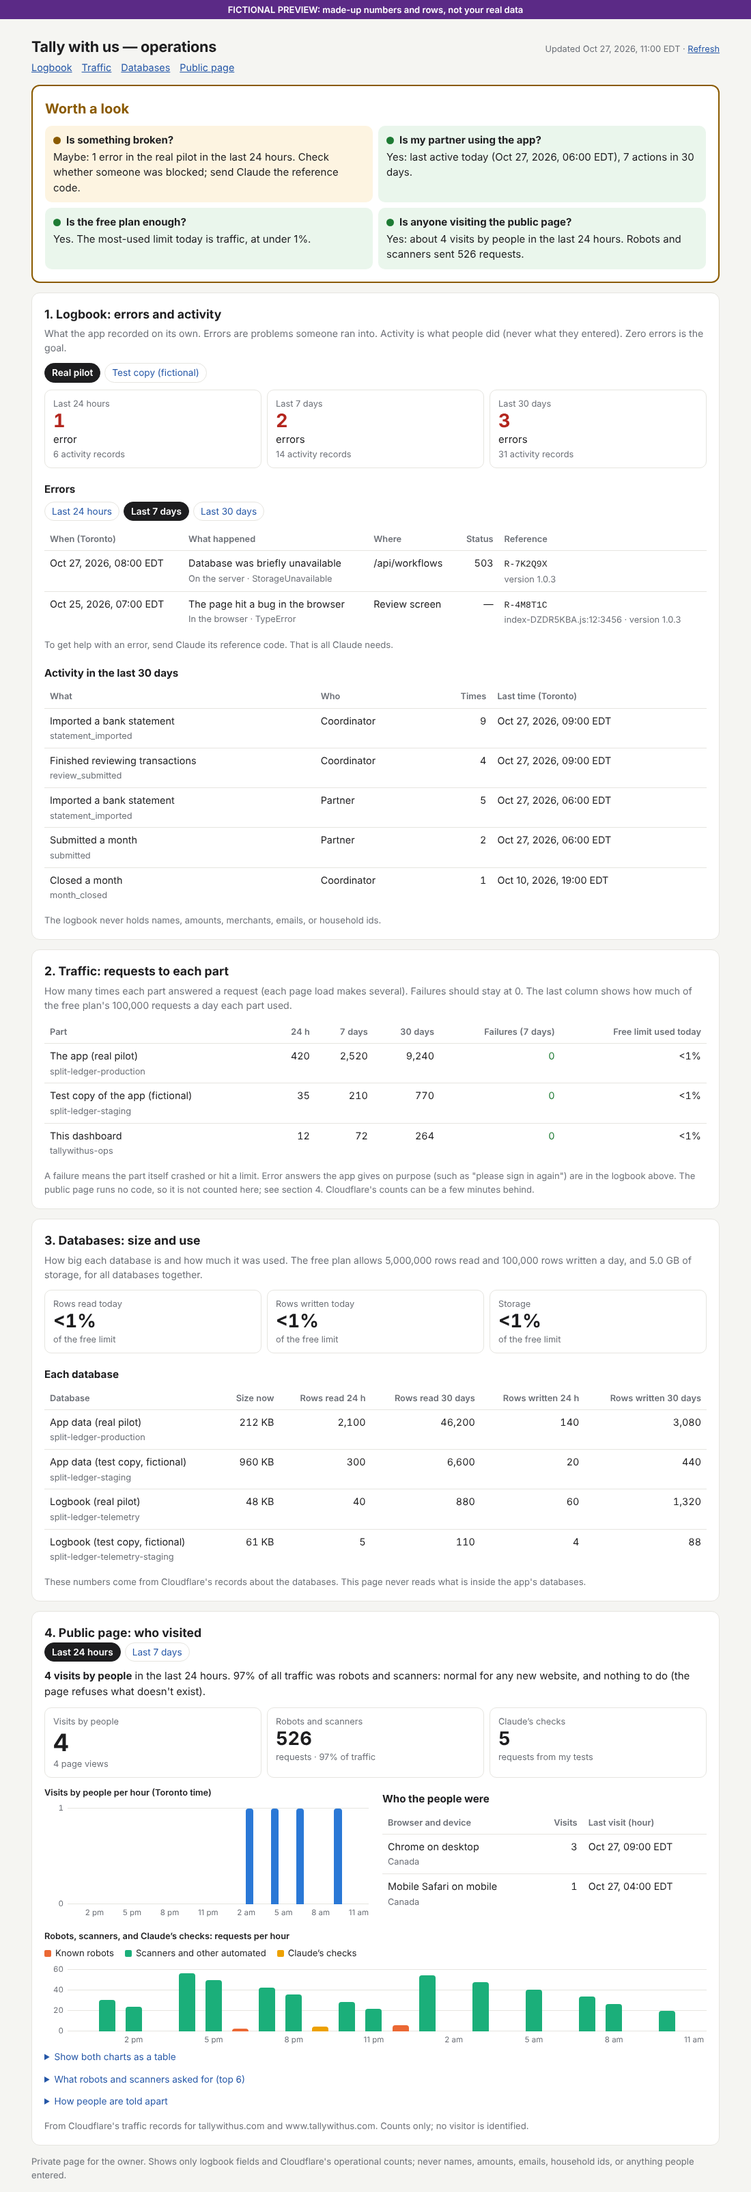
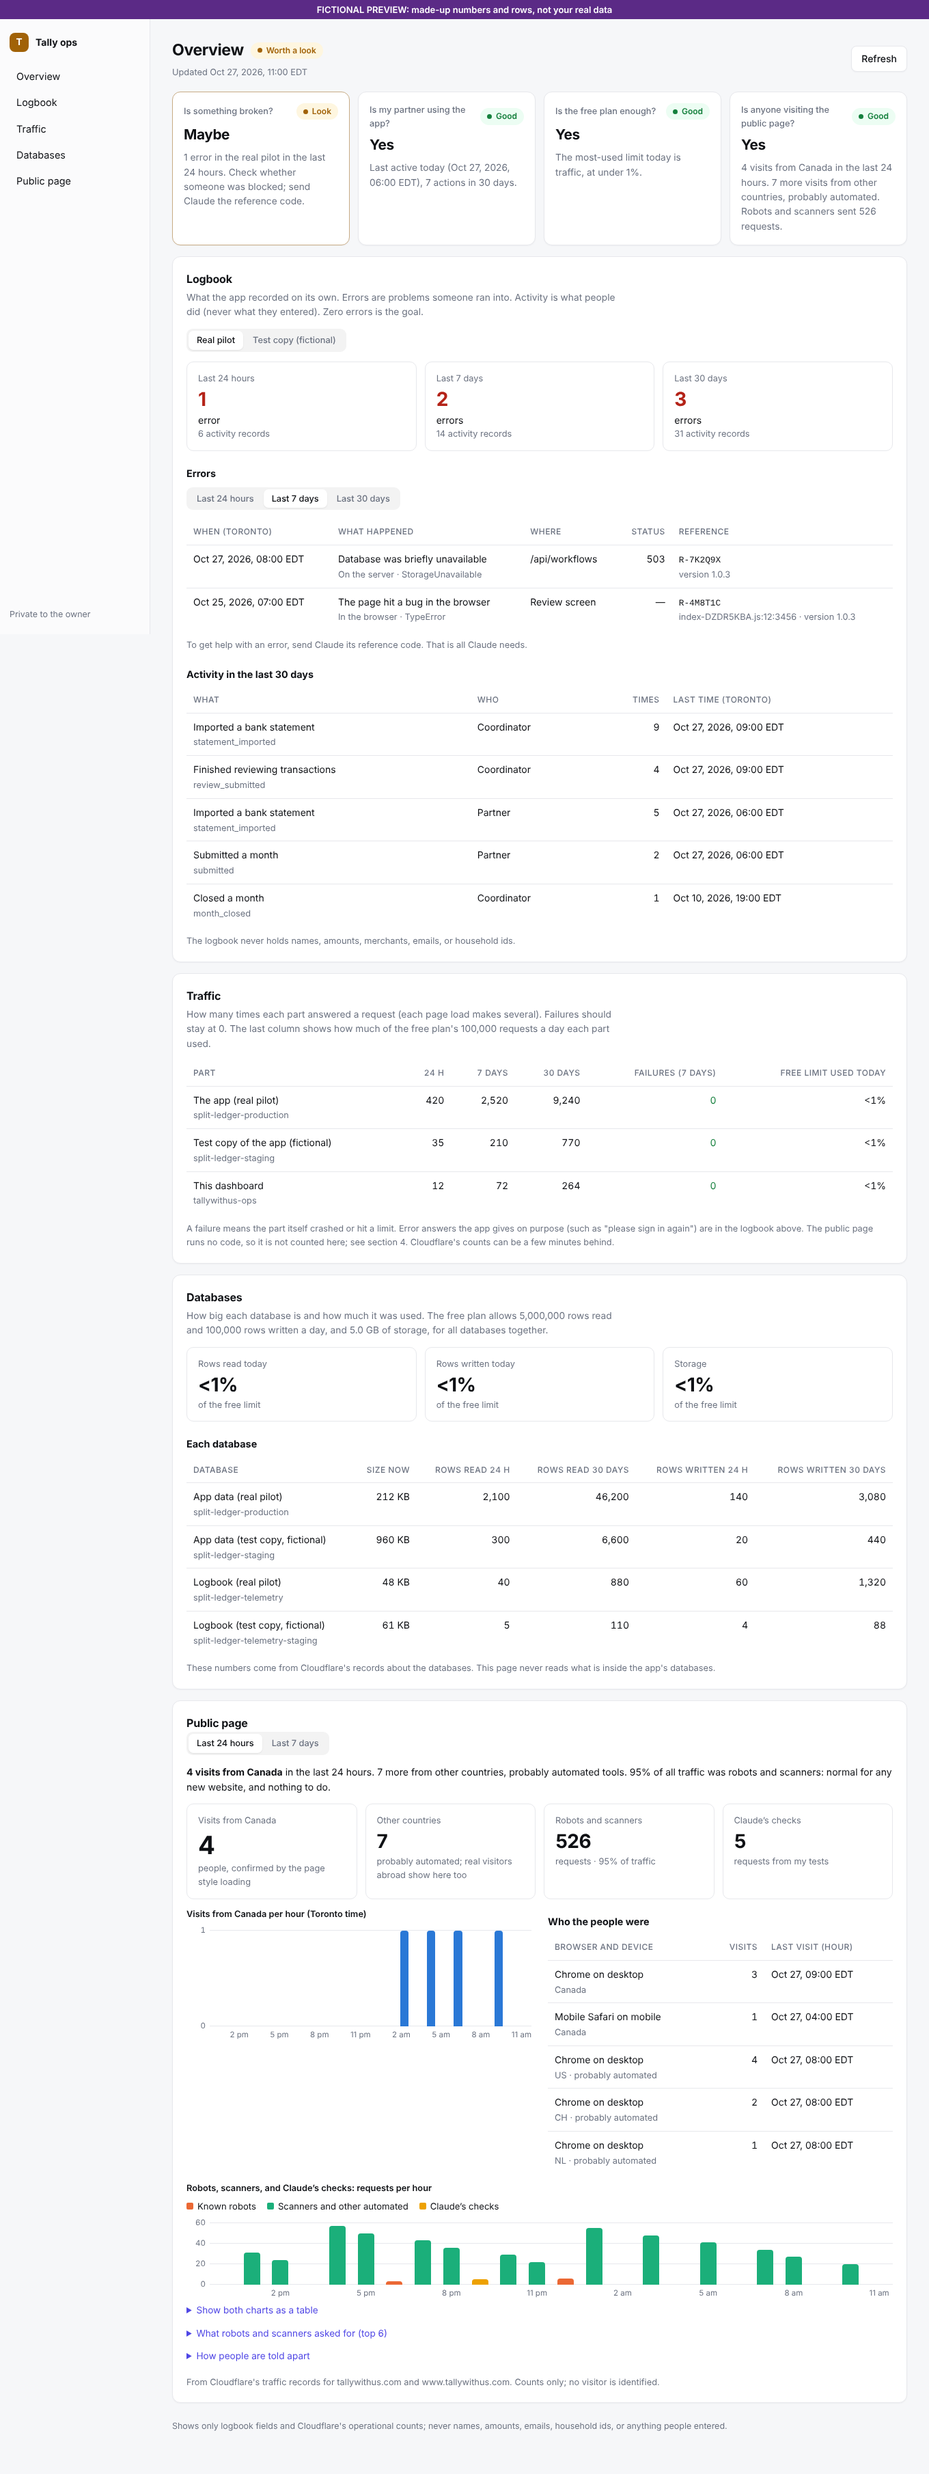
Give the ops dashboard a light SaaS layout (WEB-052)
Sidebar, overview cards that answer the owner's four questions with a status
pill and a short answer, hairline cards, segmented switches, and quieter
tables. Plain HTML and CSS with the system font; phone and dark mode checked.

Claude-Session: https://claude.ai/code/session_01H7phMzBrcq1qitgQ69NEbm

diff --git a/ops-dashboard/src/render.ts b/ops-dashboard/src/render.ts
@@ -29,58 +29,79 @@ export interface PageData {
   visitors: Loaded<PublicPage>
 }
 
+// Light SaaS look (references: Vercel's dashboard for the sidebar and hairline cards, Stripe's
+// home for the overview row of status cards). System font: the page loads nothing outside.
 const STYLE = `
-:root { color-scheme: light dark; --bg: #f5f5f2; --card: #fff; --text: #1d1d1f; --muted: #6b6f76; --line: #e6e5e0; --accent: #2557a7;
-  --good: #1e7b34; --good-bg: #eaf6ec; --info: #3b5b8c; --info-bg: #edf2fa; --watch: #8a5a00; --watch-bg: #fdf4e1; --act: #b3261e; --act-bg: #fdecea; }
-@media (prefers-color-scheme: dark) { :root { --bg: #141414; --card: #1e1e1e; --text: #ececec; --muted: #a3a3a3; --line: #323232; --accent: #8ab4f8;
-  --good: #7bd88f; --good-bg: #17291b; --info: #9db7e0; --info-bg: #19212e; --watch: #f2c26b; --watch-bg: #2c2414; --act: #ff8a80; --act-bg: #331a18; } }
+:root { color-scheme: light dark; --bg: #f6f7f9; --card: #fff; --text: #0f1115; --muted: #6b7280; --line: #e7e8ec; --accent: #4f46e5; --side: #fbfbfc;
+  --good: #15803d; --good-bg: #ecfdf3; --info: #3b5bdb; --info-bg: #eef2ff; --watch: #a16207; --watch-bg: #fef6e0; --act: #b42318; --act-bg: #fef1f0;
+  --shadow: 0 1px 2px rgba(16, 24, 40, 0.04); }
+@media (prefers-color-scheme: dark) { :root { --bg: #0b0c0f; --card: #14161b; --text: #ececf1; --muted: #9aa0ab; --line: #262a33; --accent: #a5b4fc; --side: #0f1115;
+  --good: #6ee7a0; --good-bg: #0f2a1b; --info: #a5b4fc; --info-bg: #1a1f3a; --watch: #fcd34d; --watch-bg: #2d2410; --act: #fda29b; --act-bg: #34171a; --shadow: none; } }
 * { box-sizing: border-box; }
-body { margin: 0; background: var(--bg); color: var(--text); font: 15px/1.5 system-ui, -apple-system, "Segoe UI", sans-serif; }
-main { max-width: 1040px; margin: 0 auto; padding: 16px; }
-a { color: var(--accent); }
-header { display: flex; flex-wrap: wrap; justify-content: space-between; align-items: baseline; gap: 4px 16px; margin: 8px 0 4px; }
-h1 { font-size: 1.35rem; margin: 0; letter-spacing: -0.01em; }
-h2 { font-size: 1.1rem; margin: 0; }
-h3 { font-size: 0.95rem; margin: 20px 0 6px; }
-section { background: var(--card); border: 1px solid var(--line); border-radius: 12px; padding: 18px; margin: 14px 0; }
-.how { color: var(--muted); font-size: 0.88rem; margin: 4px 0 12px; }
-.muted { color: var(--muted); }
-.small { font-size: 0.8rem; }
-.note { color: var(--muted); font-size: 0.82rem; margin: 10px 0 0; }
+body { margin: 0; background: var(--bg); color: var(--text); font: 14px/1.55 system-ui, -apple-system, "Segoe UI", Roboto, sans-serif; -webkit-font-smoothing: antialiased; }
+a { color: var(--accent); text-decoration: none; } a:hover { text-decoration: underline; }
+.shell { display: grid; grid-template-columns: 220px minmax(0, 1fr); min-height: 100vh; }
+.side { position: sticky; top: 0; height: 100vh; background: var(--side); border-right: 1px solid var(--line); padding: 20px 14px; display: flex; flex-direction: column; gap: 18px; }
+.brand { display: flex; align-items: center; gap: 10px; font-weight: 650; }
+.logo { width: 28px; height: 28px; border-radius: 8px; display: grid; place-items: center; color: #fff; font-size: 0.85rem; background: var(--good); }
+.logo.watch { background: var(--watch); } .logo.act { background: var(--act); }
+@media (prefers-color-scheme: dark) { .logo { color: #0b0c0f; } }
+.side nav { display: flex; flex-direction: column; gap: 2px; }
+.side nav a { color: var(--text); padding: 7px 10px; border-radius: 8px; font-size: 0.9rem; }
+.side nav a:hover { background: color-mix(in srgb, var(--text) 6%, transparent); text-decoration: none; }
+.side-foot { margin-top: auto; font-size: 0.78rem; color: var(--muted); }
+.content { padding: 28px 32px 48px; max-width: 1180px; width: 100%; min-width: 0; }
+.top { display: flex; flex-wrap: wrap; justify-content: space-between; align-items: center; gap: 12px; margin-bottom: 18px; }
+h1 { font-size: 1.45rem; margin: 0; letter-spacing: -0.02em; display: flex; align-items: center; gap: 10px; }
+h2 { font-size: 1rem; margin: 0; letter-spacing: -0.01em; }
+h3 { font-size: 0.9rem; margin: 22px 0 8px; }
+.btn { border: 1px solid var(--line); background: var(--card); color: var(--text); border-radius: 8px; padding: 7px 14px; font-weight: 550; box-shadow: var(--shadow); }
+.btn:hover { text-decoration: none; border-color: var(--muted); }
+section { background: var(--card); border: 1px solid var(--line); border-radius: 12px; padding: 20px; margin: 16px 0; box-shadow: var(--shadow); scroll-margin-top: 16px; }
+.how { color: var(--muted); font-size: 0.86rem; margin: 4px 0 14px; max-width: 75ch; }
+.muted { color: var(--muted); } .small { font-size: 0.8rem; }
+.note { color: var(--muted); font-size: 0.8rem; margin: 12px 0 0; }
 .scroll { overflow-x: auto; }
-table { border-collapse: collapse; width: 100%; font-size: 0.9rem; }
-th, td { text-align: left; padding: 7px 8px; border-bottom: 1px solid var(--line); vertical-align: top; }
-th { color: var(--muted); font-weight: 600; font-size: 0.8rem; white-space: nowrap; }
+table { border-collapse: collapse; width: 100%; font-size: 0.875rem; }
+th, td { text-align: left; padding: 9px 10px; border-bottom: 1px solid var(--line); vertical-align: top; }
+th { color: var(--muted); font-weight: 550; font-size: 0.75rem; text-transform: uppercase; letter-spacing: 0.04em; white-space: nowrap; }
+tbody tr:hover { background: color-mix(in srgb, var(--text) 3%, transparent); }
 td.num, th.num { text-align: right; font-variant-numeric: tabular-nums; white-space: nowrap; }
 tbody tr:last-child td { border-bottom: none; }
-.tiles { display: grid; grid-template-columns: repeat(auto-fit, minmax(88px, 1fr)); gap: 8px; }
-.tile { border: 1px solid var(--line); border-radius: 10px; padding: 10px 12px; }
-.tile .big { font-size: 1.7rem; font-weight: 650; font-variant-numeric: tabular-nums; line-height: 1.2; }
-.zero { color: var(--good); }
-.some { color: var(--act); }
-.choices { display: flex; flex-wrap: wrap; gap: 6px; margin: 0 0 10px; }
-.choices a, .choices strong { font-size: 0.85rem; padding: 3px 10px; border-radius: 999px; border: 1px solid var(--line); text-decoration: none; }
-.choices strong { background: var(--text); color: var(--card); border-color: var(--text); font-weight: 600; }
-.plain { margin: 0 0 10px; padding-left: 18px; }
-.two { display: grid; grid-template-columns: repeat(auto-fit, minmax(min(100%, 380px), 1fr)); gap: 0 20px; }
-.tile.hero .big { font-size: 2.2rem; }
-.takeaway { margin: 0 0 12px; }
-.failed { color: var(--watch); background: var(--watch-bg); border-radius: 8px; padding: 8px 12px; margin: 0; }
-code { font-size: 0.82rem; white-space: nowrap; }
-.glance { border-width: 2px; }
-.glance.good, .glance.info { border-color: var(--good); }
-.glance.watch { border-color: var(--watch); }
-.glance.act { border-color: var(--act); }
-.verdict { font-size: 1.25rem; font-weight: 650; margin: 0 0 10px; }
-.glance.watch .verdict { color: var(--watch); } .glance.act .verdict { color: var(--act); } .glance.good .verdict, .glance.info .verdict { color: var(--good); }
-.answers { display: grid; grid-template-columns: repeat(auto-fit, minmax(min(100%, 380px), 1fr)); gap: 8px; }
-.answer { border-radius: 10px; padding: 10px 12px; }
+.tiles { display: grid; grid-template-columns: repeat(auto-fit, minmax(150px, 1fr)); gap: 12px; }
+.tile { border: 1px solid var(--line); border-radius: 10px; padding: 14px 16px; background: var(--card); }
+.tile .big { font-size: 1.75rem; font-weight: 650; letter-spacing: -0.02em; line-height: 1.2; margin: 4px 0 2px; }
+.tile.hero .big { font-size: 2.3rem; }
+.zero { color: var(--good); } .some { color: var(--act); }
+.choices { display: inline-flex; flex-wrap: wrap; gap: 2px; padding: 3px; background: color-mix(in srgb, var(--text) 5%, transparent); border-radius: 9px; margin: 0 0 14px; }
+.choices a, .choices strong { font-size: 0.8rem; padding: 4px 12px; border-radius: 7px; color: var(--muted); font-weight: 550; }
+.choices strong { background: var(--card); color: var(--text); box-shadow: 0 1px 2px rgba(0, 0, 0, 0.08); }
+.choices a:hover { color: var(--text); text-decoration: none; }
+.failed { color: var(--watch); background: var(--watch-bg); border-radius: 8px; padding: 10px 12px; margin: 0; }
+code { font: 0.8rem ui-monospace, SFMono-Regular, Menlo, monospace; white-space: nowrap; }
+.pill { display: inline-flex; align-items: center; gap: 6px; font-size: 0.75rem; font-weight: 600; padding: 3px 10px; border-radius: 999px; letter-spacing: 0; }
+.pill.good { color: var(--good); background: var(--good-bg); } .pill.info { color: var(--info); background: var(--info-bg); }
+.pill.watch { color: var(--watch); background: var(--watch-bg); } .pill.act { color: var(--act); background: var(--act-bg); }
+.dot { width: 7px; height: 7px; border-radius: 50%; background: currentColor; flex: none; }
+.overview { display: grid; grid-template-columns: repeat(auto-fit, minmax(min(100%, 240px), 1fr)); gap: 12px; }
+.answer { background: var(--card); border: 1px solid var(--line); border-radius: 12px; padding: 16px; box-shadow: var(--shadow); display: flex; flex-direction: column; gap: 10px; }
+.answer.watch { border-color: color-mix(in srgb, var(--watch) 45%, var(--line)); } .answer.act { border-color: color-mix(in srgb, var(--act) 55%, var(--line)); }
+.answer .question { margin: 0; font-size: 0.8rem; color: var(--muted); font-weight: 550; display: flex; justify-content: space-between; align-items: center; gap: 8px; }
 .answer p { margin: 0; }
-.answer .question { display: flex; align-items: center; gap: 8px; font-weight: 650; margin-bottom: 2px; }
-.answer.good { background: var(--good-bg); } .answer.info { background: var(--info-bg); } .answer.watch { background: var(--watch-bg); } .answer.act { background: var(--act-bg); }
-.dot { width: 11px; height: 11px; border-radius: 50%; flex: none; }
-.dot.good { background: var(--good); } .dot.info { background: var(--info); } .dot.watch { background: var(--watch); } .dot.act { background: var(--act); }
-nav { display: flex; flex-wrap: wrap; gap: 14px; font-size: 0.9rem; margin: 0 0 4px; }
+.answer .short { font-size: 1.3rem; font-weight: 650; letter-spacing: -0.02em; line-height: 1.2; }
+.answer .long { color: var(--muted); font-size: 0.86rem; }
+.plain { margin: 0 0 10px; padding-left: 18px; }
+.two { display: grid; grid-template-columns: repeat(auto-fit, minmax(min(100%, 380px), 1fr)); gap: 0 24px; }
+.takeaway { margin: 0 0 14px; }
+.foot { color: var(--muted); font-size: 0.78rem; margin-top: 24px; }
+@media (max-width: 820px) {
+  .shell { grid-template-columns: minmax(0, 1fr); }
+  .side { position: static; height: auto; flex-direction: row; flex-wrap: wrap; align-items: center; padding: 12px 16px; gap: 10px 16px; border-right: 0; border-bottom: 1px solid var(--line); }
+  .side nav { flex-direction: row; flex-wrap: wrap; }
+  .side nav a { padding: 4px 8px; }
+  .side-foot { display: none; }
+  .content { padding: 18px 16px 40px; }
+}
 `
 
 function link(text: string, href: string, current: boolean): string {
@@ -106,9 +127,24 @@ function named(friendly: string, technical: string): string {
   return friendly === technical ? escapeHtml(technical) : `${escapeHtml(friendly)}<br><span class="muted small">${escapeHtml(technical)}</span>`
 }
 
+const PILL_WORDS: Record<string, string> = { good: 'Good', info: 'Info', watch: 'Look', act: 'Act' }
+
+function pill(level: string, text = PILL_WORDS[level]): string {
+  return `<span class="pill ${level}"><span class="dot"></span>${escapeHtml(text)}</span>`
+}
+
+/** "Maybe: 1 error …" becomes a big "Maybe" over the smaller rest, so the card reads at a glance. */
+export function splitAnswer(text: string): { short: string; long: string } {
+  const match = text.match(/^([^:.]{1,40})[:.]\s+(.*)$/s)
+  return match ? { short: match[1], long: match[2].charAt(0).toUpperCase() + match[2].slice(1) } : { short: text, long: '' }
+}
+
 export function renderGlance(health: Health): string {
-  const answers = health.answers.map((answer) => `<div class="answer ${answer.level}"><p class="question"><span class="dot ${answer.level}"></span>${escapeHtml(answer.question)}</p><p>${escapeHtml(answer.answer)}</p></div>`).join('')
-  return `<section class="glance ${health.level}" id="glance"><p class="verdict">${escapeHtml(health.headline)}</p><div class="answers">${answers}</div></section>`
+  const answers = health.answers.map((answer) => {
+    const { short, long } = splitAnswer(answer.answer)
+    return `<div class="answer ${answer.level}"><p class="question">${escapeHtml(answer.question)}${pill(answer.level)}</p><p class="short">${escapeHtml(short)}</p>${long ? `<p class="long">${escapeHtml(long)}</p>` : ''}</div>`
+  }).join('')
+  return `<div class="overview" id="glance">${answers}</div>`
 }
 
 export function renderLogbook(data: PageData): string {
@@ -116,7 +152,7 @@ export function renderLogbook(data: PageData): string {
     .filter((name) => name === 'production' || data.stagingAvailable)
     .map((name) => link(name === 'production' ? 'Real pilot' : 'Test copy (fictional)', pageHref(name, data.errorWindow, '#logbook'), name === data.logbookName))
     .join('')
-  const heading = `<h2>1. Logbook: errors and activity</h2>
+  const heading = `<h2>Logbook</h2>
 <p class="how">What the app recorded on its own. Errors are problems someone ran into. Activity is what people did (never what they entered). Zero errors is the goal.</p>
 <div class="choices">${choices}</div>`
   if (!data.logbook.ok) return `<section id="logbook">${heading}${failed(data.logbook.reason)}</section>`
@@ -157,7 +193,7 @@ export function renderLogbook(data: PageData): string {
 }
 
 export function renderWorkers(workers: PageData['workers']): string {
-  const heading = `<h2>2. Traffic: requests to each part</h2>
+  const heading = `<h2>Traffic</h2>
 <p class="how">How many times each part answered a request (each page load makes several). Failures should stay at 0. The last column shows how much of the free plan's ${count(FREE_LIMITS.workerRequestsPerDay)} requests a day each part used.</p>`
   if (!workers.ok) return `<section id="workers">${heading}${failed(workers.reason)}</section>`
   const rows = Object.entries(workers.value).map(([name, counts]) => `<tr><td>${named(label(WORKER_LABELS, name), name)}</td>
@@ -171,7 +207,7 @@ ${WINDOW_NAMES.map((window) => `<td class="num">${count(counts[window].requests)
 }
 
 export function renderDatabases(databases: PageData['databases']): string {
-  const heading = `<h2>3. Databases: size and use</h2>
+  const heading = `<h2>Databases</h2>
 <p class="how">How big each database is and how much it was used. The free plan allows ${count(FREE_LIMITS.d1RowsReadPerDay)} rows read and ${count(FREE_LIMITS.d1RowsWrittenPerDay)} rows written a day, and ${bytes(FREE_LIMITS.d1StorageBytes)} of storage, for all databases together.</p>`
   if (!databases.ok) return `<section id="databases">${heading}${failed(databases.reason)}</section>`
   if (!databases.value.length) return `<section id="databases">${heading}<p class="muted">No databases found.</p></section>`
@@ -202,7 +238,7 @@ export function renderVisitors(data: PageData): string {
   const range = data.trafficRange
   const period = range === '24h' ? 'the last 24 hours' : 'the last 7 days'
   const choices = (Object.keys(TRAFFIC_RANGES) as TrafficRange[]).map((name) => link(RANGE_LABELS[name], pageHref(data.logbookName, data.errorWindow, '#visitors', name), name === range)).join('')
-  const heading = `<h2>4. Public page: who visited</h2><div class="choices">${choices}</div>`
+  const heading = `<h2>Public page</h2><div class="choices">${choices}</div>`
   if (!data.visitors.ok) return `<section id="visitors">${heading}${failed(data.visitors.reason)}</section>`
   const { report, sampled, truncated, missing } = data.visitors.value
   const others = report.requests.robots + report.requests.automated
@@ -239,21 +275,25 @@ ${otherChart}${renderChartTable(report.buckets)}${robots}
 export function renderPage(data: PageData): string {
   currentRange = data.trafficRange
   const health = assessHealth(data)
+  const level = health.level === 'info' ? 'good' : health.level
   return `<!doctype html>
 <html lang="en"><head><meta charset="utf-8"><meta name="viewport" content="width=device-width, initial-scale=1">
 <meta name="robots" content="noindex, nofollow"><title>Tally with us — operations</title><style>${STYLE}${CHART_STYLE}</style></head>
-<body><main>
-<header><h1>Tally with us — operations</h1><span class="muted small">Updated ${escapeHtml(torontoTime(data.now.toISOString()))} · <a href="${escapeHtml(pageHref(data.logbookName, data.errorWindow))}">Refresh</a></span></header>
-<nav><a href="#logbook">Logbook</a><a href="#workers">Traffic</a><a href="#databases">Databases</a><a href="#visitors">Public page</a></nav>
+<body><div class="shell">
+<aside class="side"><div class="brand"><span class="logo ${level}">T</span>Tally ops</div>
+<nav><a href="#top">Overview</a><a href="#logbook">Logbook</a><a href="#workers">Traffic</a><a href="#databases">Databases</a><a href="#visitors">Public page</a></nav>
+<div class="side-foot">Private to the owner</div></aside>
+<main class="content">
+<header class="top" id="top"><div><h1>Overview ${pill(level, health.headline)}</h1><p class="muted small" style="margin:4px 0 0">Updated ${escapeHtml(torontoTime(data.now.toISOString()))}</p></div><a class="btn" href="${escapeHtml(pageHref(data.logbookName, data.errorWindow))}">Refresh</a></header>
 ${renderGlance(health)}
 ${renderLogbook(data)}
 ${renderWorkers(data.workers)}
 ${renderDatabases(data.databases)}
 ${renderVisitors(data)}
-<p class="note">Private page for the owner. Shows only logbook fields and Cloudflare's operational counts; never names, amounts, emails, household ids, or anything people entered.</p>
-</main></body></html>`
+<p class="foot">Shows only logbook fields and Cloudflare's operational counts; never names, amounts, emails, household ids, or anything people entered.</p>
+</main></div></body></html>`
 }
 
 export function renderMessage(title: string, message: string): string {
-  return `<!doctype html><html lang="en"><head><meta charset="utf-8"><meta name="viewport" content="width=device-width, initial-scale=1"><meta name="robots" content="noindex, nofollow"><title>${escapeHtml(title)}</title><style>${STYLE}</style></head><body><main><section><h1>${escapeHtml(title)}</h1><p>${escapeHtml(message)}</p></section></main></body></html>`
+  return `<!doctype html><html lang="en"><head><meta charset="utf-8"><meta name="viewport" content="width=device-width, initial-scale=1"><meta name="robots" content="noindex, nofollow"><title>${escapeHtml(title)}</title><style>${STYLE}</style></head><body><main class="content" style="margin:40px auto;max-width:520px"><section><h2>${escapeHtml(title)}</h2><p class="muted">${escapeHtml(message)}</p></section></main></body></html>`
 }

diff --git a/ops-dashboard/test/health.test.ts b/ops-dashboard/test/health.test.ts
@@ -104,3 +104,12 @@ describe('plain-language labels', () => {
     expect(errorLabel('worker', null)).toBe('Unknown problem')
   })
 })
+
+describe('overview cards', () => {
+  it('lead with a short answer', async () => {
+    const { splitAnswer } = await import('../src/render')
+    expect(splitAnswer('Maybe: 1 error in the real pilot.')).toEqual({ short: 'Maybe', long: '1 error in the real pilot.' })
+    expect(splitAnswer('Yes. The most-used limit today is traffic, at under 1%.')).toEqual({ short: 'Yes', long: 'The most-used limit today is traffic, at under 1%.' })
+    expect(splitAnswer('No visits from Canada in the last 24 hours.')).toEqual({ short: 'No visits from Canada in the last 24 hours.', long: '' })
+  })
+})

diff --git a/ops-dashboard/test/page.test.ts b/ops-dashboard/test/page.test.ts
@@ -95,7 +95,7 @@ describe('dashboard page', () => {
     expect(body).toContain('1,234')
     expect(body).toContain('split-ledger-telemetry')
     expect(body).toContain('37 KB')
-    expect(body).toContain('Yes: 1 visit from Canada in the last 24 hours. Robots and scanners sent 40 requests.')
+    expect(body).toContain('<p class="short">Yes</p><p class="long">1 visit from Canada in the last 24 hours. Robots and scanners sent 40 requests.</p>')
     expect(body).toContain('does not exist on the site')
     expect(body).toContain('1 visit from Canada</strong> in the last 24 hours')
     expect(body).toContain('Chrome on desktop')

diff --git a/ops-dashboard/README.md b/ops-dashboard/README.md
@@ -241,12 +241,18 @@ without hiding the others.
    - **Cloudflare Web Analytics:** free, cookie-free script that counts real browsers only.
      Needs the same policy change, but no cookie notice, and keeps data in Cloudflare.
    - Then section 4 reads that tool's numbers, or links to its dashboard.
-2. **SaaS-style redesign of the whole dashboard:** owner request, not started.
+2. **SaaS-style redesign:** done 2026-10-26 (see the log).
 3. **Moving these notes into `docs/`:** when the owner asks to merge `ops-dashboard` by pull
    request.
 
 ## Status log
 
+- **2026-10-26 (SaaS redesign):** light SaaS look after two references: Vercel's dashboard
+  (sidebar, grey canvas, hairline white cards, one accent) and Stripe's home (overview row
+  of status cards). The four questions are cards with a status pill and a big short answer
+  ("Yes", "Maybe") over the detail; segmented time switches; quieter tables. System font
+  only, no scripts (the security policy allows neither). Works at phone width and in dark
+  mode. 62 tests pass. Not deployed yet.
 - **2026-10-26 (Canada split, owner decision):** with the style rule, the live page showed 14
   visits by people: 3 from Canada (matching the owner's 2–3 desktop visits and one phone
   visit by his wife) and 11 from the US, Switzerland, and the Netherlands (tools running a
